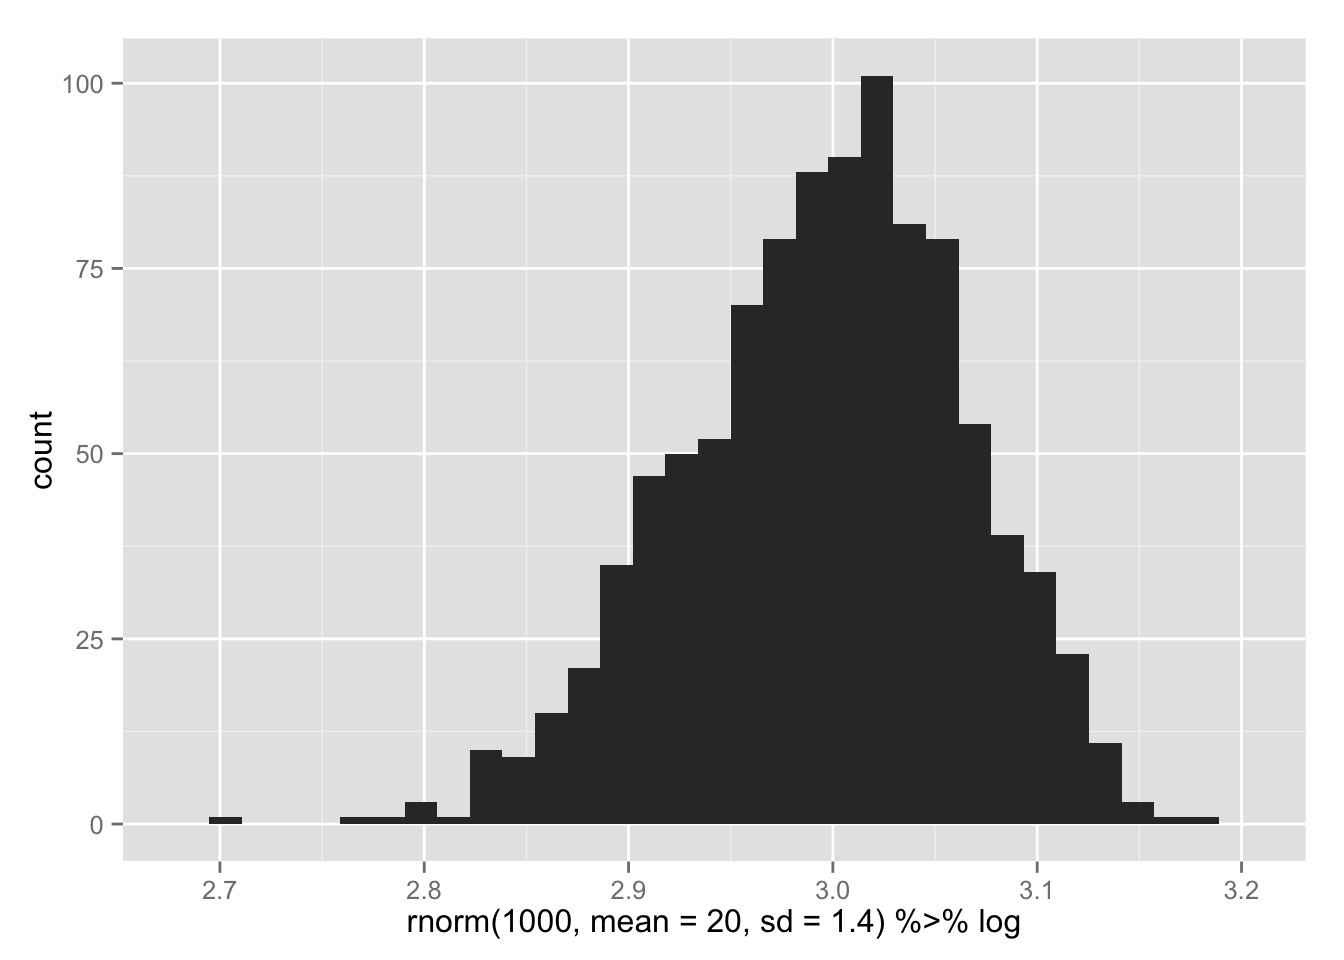
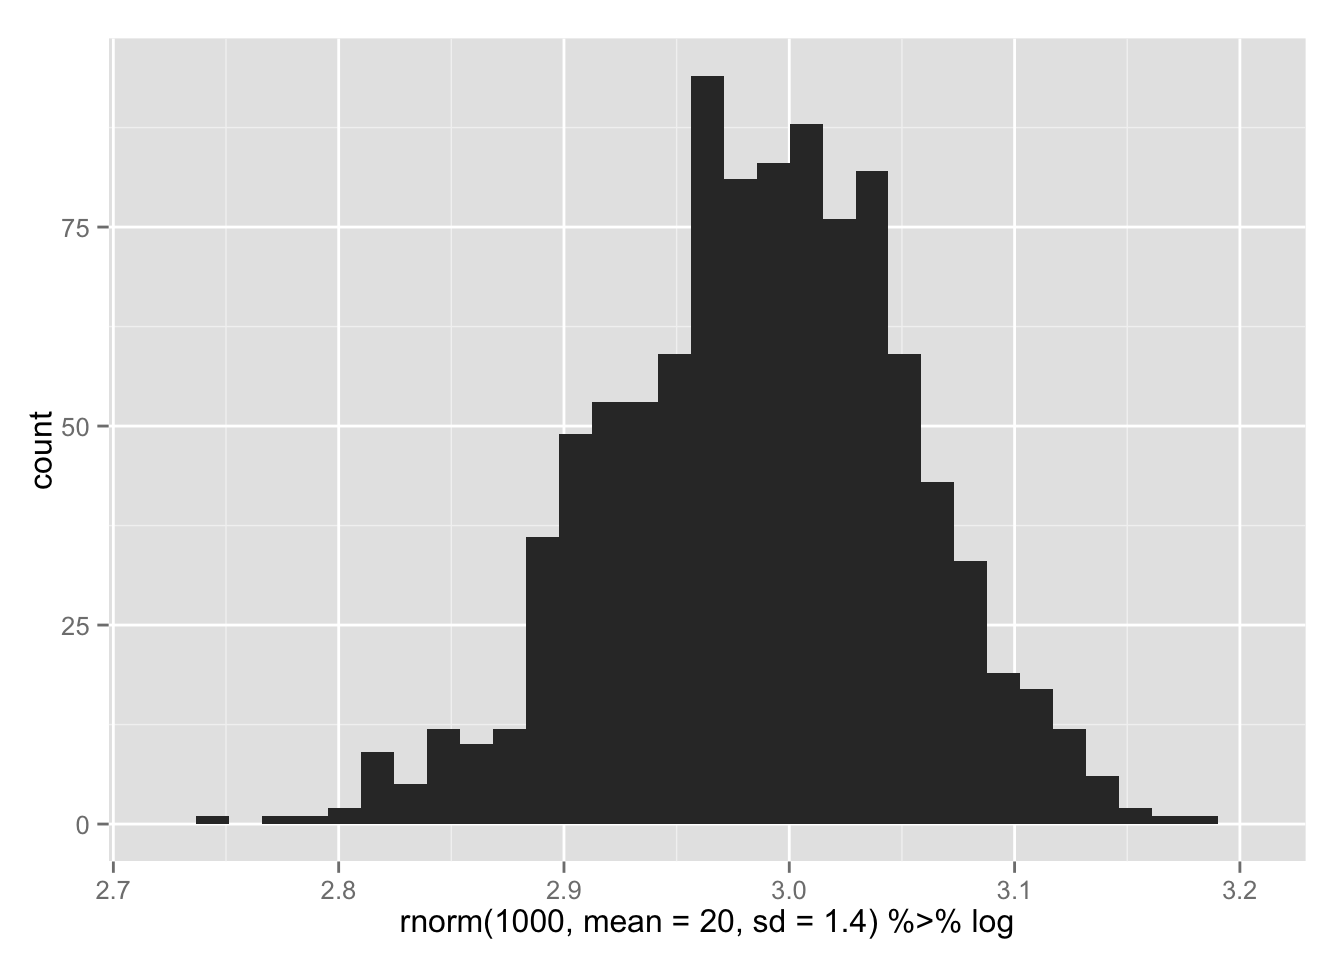
update

diff --git a/automation.html b/automation.html
@@ -118,20 +118,30 @@ for(counter in myVector){
 <h3>getting stuff out of a loop</h3>
 <p>Often, we want to do some calculations, and save the results outside of the <code>for</code> loop. To do this, we can create a results vector in advance that is the same length as the vector we are looping over, then we can save the results each time in the appropriate slot.</p>
 <pre class="r"><code>myVector &lt;- runif(100, min = 1, max=10)
-results &lt;- numeric(100)
+myVector</code></pre>
+<pre><code>##   [1] 3.122504 6.474750 6.205447 1.173584 8.557625 8.244364 7.603628 7.014911 8.238271 9.562272 6.553192 6.888922
+##  [13] 2.751687 8.445793 5.230896 7.630239 5.096211 8.269825 7.519851 3.006433 3.309640 4.103673 1.381267 7.048689
+##  [25] 3.053695 8.604482 8.151622 9.204799 2.307442 2.089273 4.183954 7.989589 8.880970 2.261953 6.399874 4.593428
+##  [37] 9.562551 1.446404 8.166083 4.571646 3.854462 6.697739 8.804064 7.824866 4.145866 6.831817 8.525347 7.317992
+##  [49] 9.069397 3.389658 7.979288 8.402922 7.081274 3.732640 7.591759 6.109090 9.874661 7.872758 3.221091 7.949162
+##  [61] 1.017471 8.320518 1.326278 3.017563 9.218672 8.826138 2.401379 3.876088 6.446886 7.030421 6.710648 6.205610
+##  [73] 7.669697 9.294526 2.577917 1.531215 1.143036 1.381097 1.257743 2.048512 4.048777 3.924977 9.375353 6.947049
+##  [85] 9.516926 7.163713 9.966661 5.621596 2.578985 9.881076 6.033126 2.737455 4.214968 2.792005 9.955013 6.813191
+##  [97] 7.229759 5.046759 6.067493 5.283553</code></pre>
+<pre class="r"><code>results &lt;- numeric(100)
 for(each in 1:length(myVector)){
   results[each] &lt;- paste(myVector[each], &quot;^ 2 = &quot;, myVector[each]^2)
 }
 
 ##now get some of the stored results
 results[50]</code></pre>
-<pre><code>## [1] &quot;1.0440802318044 ^ 2 =  1.09010353044473&quot;</code></pre>
+<pre><code>## [1] &quot;3.38965763826855 ^ 2 =  11.4897789046723&quot;</code></pre>
 <pre class="r"><code>results[67]</code></pre>
-<pre><code>## [1] &quot;1.23186396062374 ^ 2 =  1.51748881748361&quot;</code></pre>
+<pre><code>## [1] &quot;2.40137859922834 ^ 2 =  5.76661917683185&quot;</code></pre>
 </div>
 <div id="if-statements" class="section level3">
 <h3><code>if</code> statements</h3>
-<p>Often during a loop, you may want to do a test and do something different based on the results of the test. Imagine a vector of germination outcomes from a seed experiment. 0 indicates the seed did not germinate due to insect predatoin, 1 indicates that it did not germinate but no insect predation occurrend, 2 indicates that the seed germinated. We can use the <code>if(condition)</code> function to evaluate the outcome and provide context specific output.</p>
+<p>Often during a loop, you may want to do a test and do something different based on the results of the test. Imagine a vector of germination outcomes from a seed experiment. 0 indicates the seed did not germinate due to insect predatoin, 1 indicates that it did not germinate but no insect predation occurrend, 2 indicates that the seed germinated. We can use the <code>if()</code> function to evaluate the outcome and provide context specific output.</p>
 <pre class="r"><code>outcomes &lt;- c(0,1,0,2,0,1,0,2,0,1,0,1,0,0)
 for(trial in outcomes){
   if(trial == 2) print(&quot;Welcome to the world, plantling!&quot;)
@@ -180,16 +190,16 @@ sampleSizes &lt;- 100:200
 myResults &lt;- lapply(sampleSizes, FUN=summarizeRandom)
 myResults[1:3]</code></pre>
 <pre><code>## [[1]]
-##    Min. 1st Qu.  Median    Mean 3rd Qu.    Max. 
-## -2.8970 -0.5976 -0.1936 -0.1297  0.5773  3.1650 
+##     Min.  1st Qu.   Median     Mean  3rd Qu.     Max. 
+## -3.10700 -0.84960 -0.01548 -0.09486  0.67800  2.61900 
 ## 
 ## [[2]]
 ##     Min.  1st Qu.   Median     Mean  3rd Qu.     Max. 
-## -3.14400 -0.74660  0.05087  0.02483  0.75540  3.10800 
+## -2.52000 -0.81320 -0.06206 -0.06491  0.62110  2.19100 
 ## 
 ## [[3]]
-##    Min. 1st Qu.  Median    Mean 3rd Qu.    Max. 
-## -2.5260 -0.7448 -0.0356 -0.1065  0.5623  2.0270</code></pre>
+##     Min.  1st Qu.   Median     Mean  3rd Qu.     Max. 
+## -2.64800 -0.53230  0.03111  0.02683  0.51770  3.54400</code></pre>
 </div>
 <div id="the-dplyr-package" class="section level2">
 <h2>the dplyr package</h2>
@@ -204,7 +214,7 @@ loans &lt;- tbl_df(loans)</code></pre>
 </div>
 <div id="the-basic-dplyr-verbs" class="section level3">
 <h3>The basic dplyr verbs</h3>
-<p>There are a few basic functions in <code>dplyr</code>, which are designed to help you think about the most common data manipulation tasks that you will need to do.</p>
+<p>There are a few basic functions in <code>dplyr</code>, which are designed to help you think about the most common data manipulation tasks that you will need to do. The first argument to these functions is always the dataframe that you want to manipulate. Within these function calls, you can refer to the names of columns in the dataframe without quotation marks and without the usual <code>$</code> syntax.</p>
 </div>
 <div id="filter" class="section level3">
 <h3><code>filter()</code></h3>
@@ -418,7 +428,10 @@ qplot(log(rnorm(1000, mean=20, sd=1.4)))</code></pre>
 </div>
 <div id="challenge-2" class="section level3">
 <h3><span class="mega-octicon octicon-puzzle"></span> Challenge</h3>
-<p>Need to put a challenge here.</p>
+<p>Using the <code>diamonds</code> dataset that is built in to the <code>ggplot2</code> package:</p>
+<ul>
+<li></li>
+</ul>
 </div>
 <div id="more-info" class="section level3">
 <h3>More info</h3>
